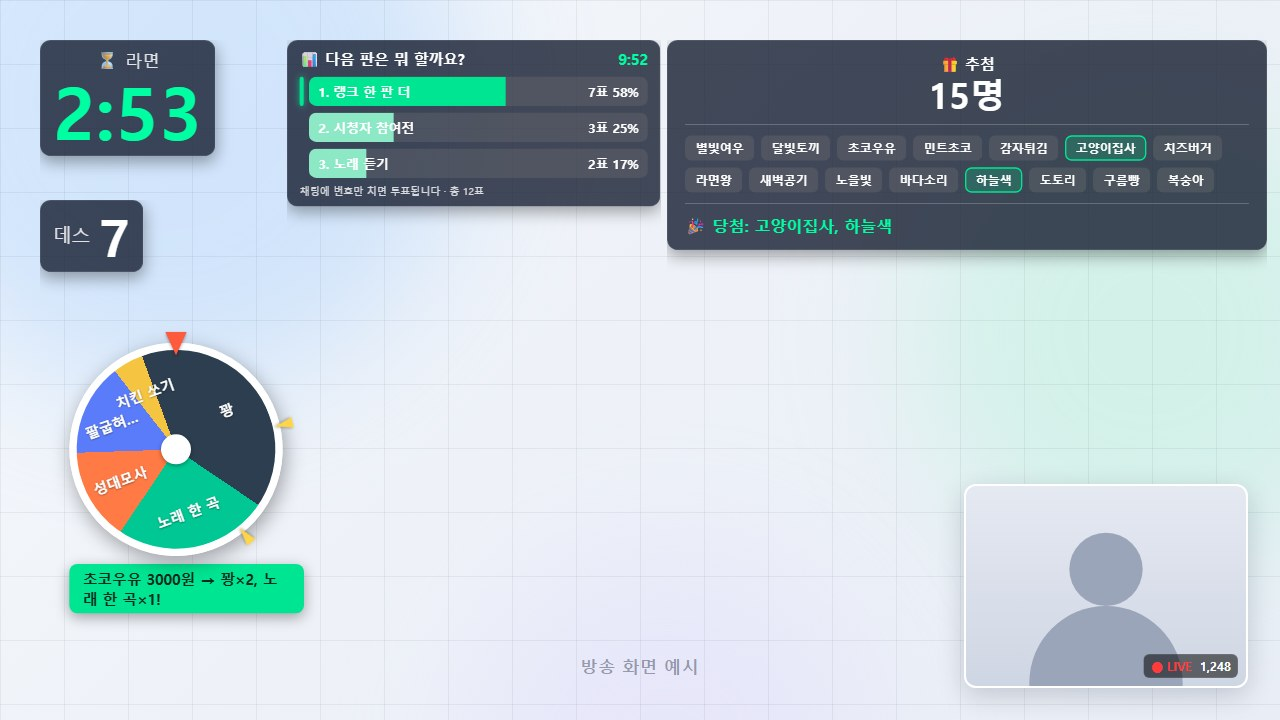
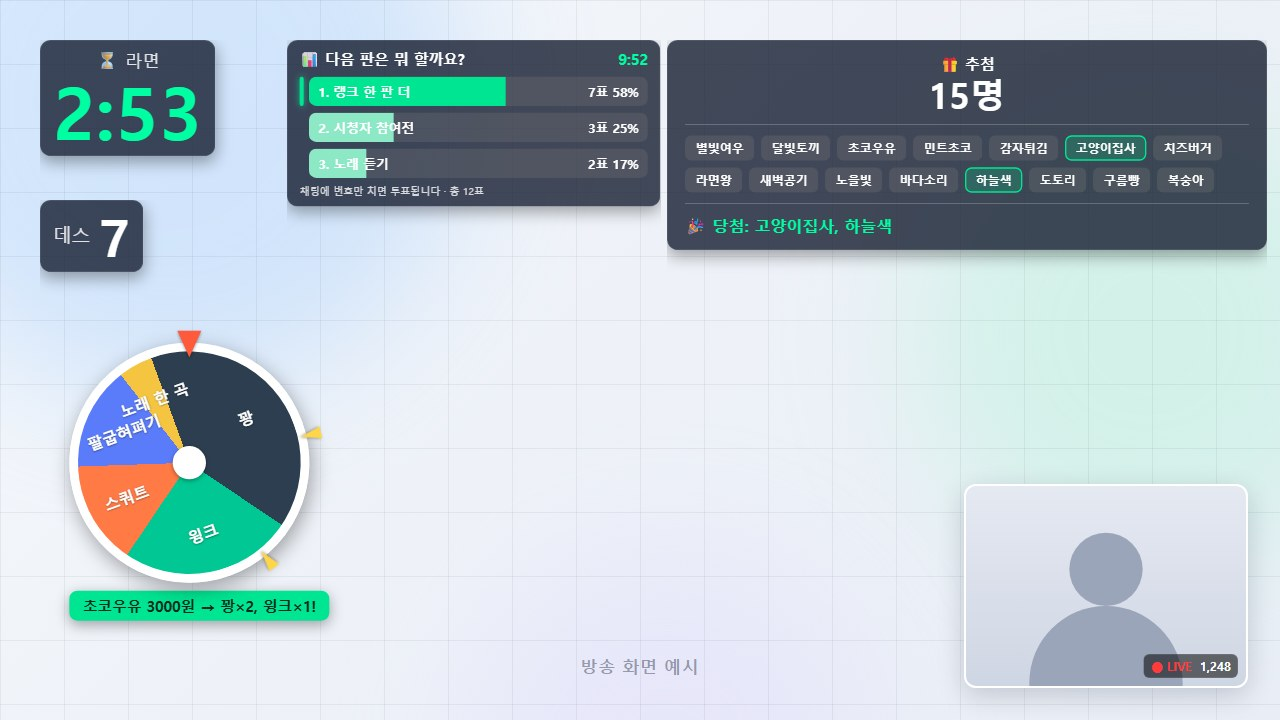
돌림판 예시 항목 변경: 꽝·윙크·스쿼트·팔굽혀펴기·노래 한 곡

Changed region(s): [[0.0312, 0.4583, 0.2812, 0.8861]]

diff --git a/guide/participation/index.html b/guide/participation/index.html
@@ -171,7 +171,7 @@
         <li>실제 후원 없이 확인하려면 <b>[테스트]</b>(1배) 또는 <b>[연차 테스트]</b>(20배)를 누르세요.</li>
       </ul>
 
-      <img src="/img/shots/overlay-roulette.jpg" width="1280" height="720" alt="방송 화면 예시 — 후원 룰렛. 원판 가장자리에 걸쇠 두 개가 더 박히고 결과가 꽝×2, 노래 한 곡×1로 표시" loading="lazy">
+      <img src="/img/shots/overlay-roulette.jpg" width="1280" height="720" alt="방송 화면 예시 — 후원 룰렛. 원판 가장자리에 걸쇠 두 개가 더 박히고 결과가 꽝×2, 윙크×1로 표시" loading="lazy">
 
       <h2 id="obs">OBS에 띄우기</h2>
       <p>각 화면 아래에 <b>OBS 브라우저 소스 URL</b>과 <b>권장 크기</b>가 있습니다. [URL 복사] → OBS에서 소스 추가 → 브라우저 → URL에 붙여넣고, 폭·높이를 권장 크기(예: 투표 560×420, 추첨 900×420)로 두면 1920×1080 화면에 딱 맞고 또렷합니다. 배경은 투명입니다.</p>
